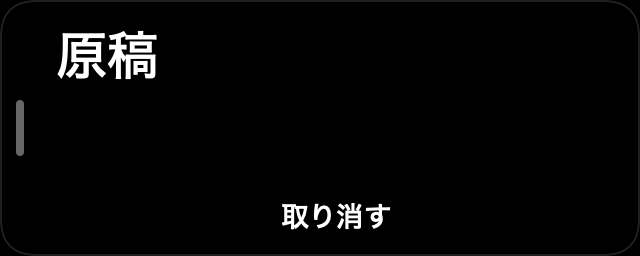
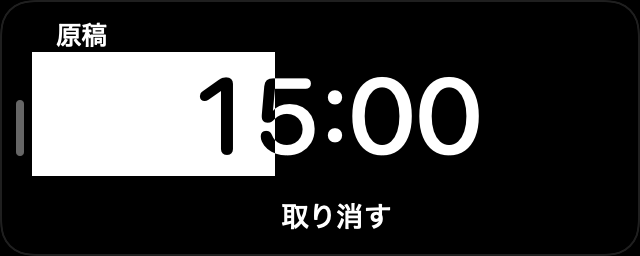
Keep PiP digits and progress fill above the hover band
Hover and the five-second undo were switching to the compact column, which replaced the remaining time with the band. They stay on the normal ride so the fill and digits remain above 位置確認 and 取り消す.

Changed region(s): [[0.0312, 0.0625, 0.75, 0.6875]]

diff --git a/TodoTrainCompanion/CompanionRideOverlayView.swift b/TodoTrainCompanion/CompanionRideOverlayView.swift
@@ -86,7 +86,9 @@ struct CompanionRideOverlayView: View {
     private var rideDigitAreaHeight: CGFloat {
         switch pipColumnLayout {
         case .classicExpanded:
-            Self.classicExpandedInstrumentHeight
+            showsRideBand
+                ? Self.classicExpandedInstrumentHeight - Self.bottomBandHeight
+                : Self.classicExpandedInstrumentHeight
         case .classicCompact:
             Self.bottomBandHeight
         case .reestimate:
@@ -106,11 +108,13 @@ struct CompanionRideOverlayView: View {
         pipColumnLayout == .classicExpanded ? Self.classicTitleBandHeight : 44
     }
 
+    /// Hover and the five-second undo keep the normal ride. The band sits under the digits.
     private var usesClassicExpandedLayout: Bool {
-        presentation.cabinPrompt == nil
-            && model.reestimateUndoUntil == nil
-            && !showsCabinActions
-            && !showsAction
+        presentation.cabinPrompt == nil && !showsCabinActions
+    }
+
+    private var showsRideBand: Bool {
+        activeBand == nil && (model.reestimateUndoUntil != nil || showsAction)
     }
 
     private var pipMotionAnimation: Animation? {
@@ -339,8 +343,25 @@ struct CompanionRideOverlayView: View {
             classicFailureLine
             rideProgressInstrument(digitAreaHeight: rideDigitAreaHeight)
                 .frame(maxWidth: .infinity, maxHeight: .infinity)
+            if showsRideBand {
+                rideBand
+            }
         }
         .frame(maxWidth: .infinity, maxHeight: .infinity, alignment: .topLeading)
+        .animation(pipMotionAnimation, value: showsRideBand)
+    }
+
+    private var rideBand: some View {
+        Group {
+            if model.reestimateUndoUntil != nil {
+                undoRow
+            } else {
+                actionRow
+            }
+        }
+        .frame(height: Self.bottomBandHeight)
+        .accessibilityElement(children: .ignore)
+        .accessibilityLabel(bottomAccessibilityLabel)
     }
 
     private var classicCompactColumn: some View {
